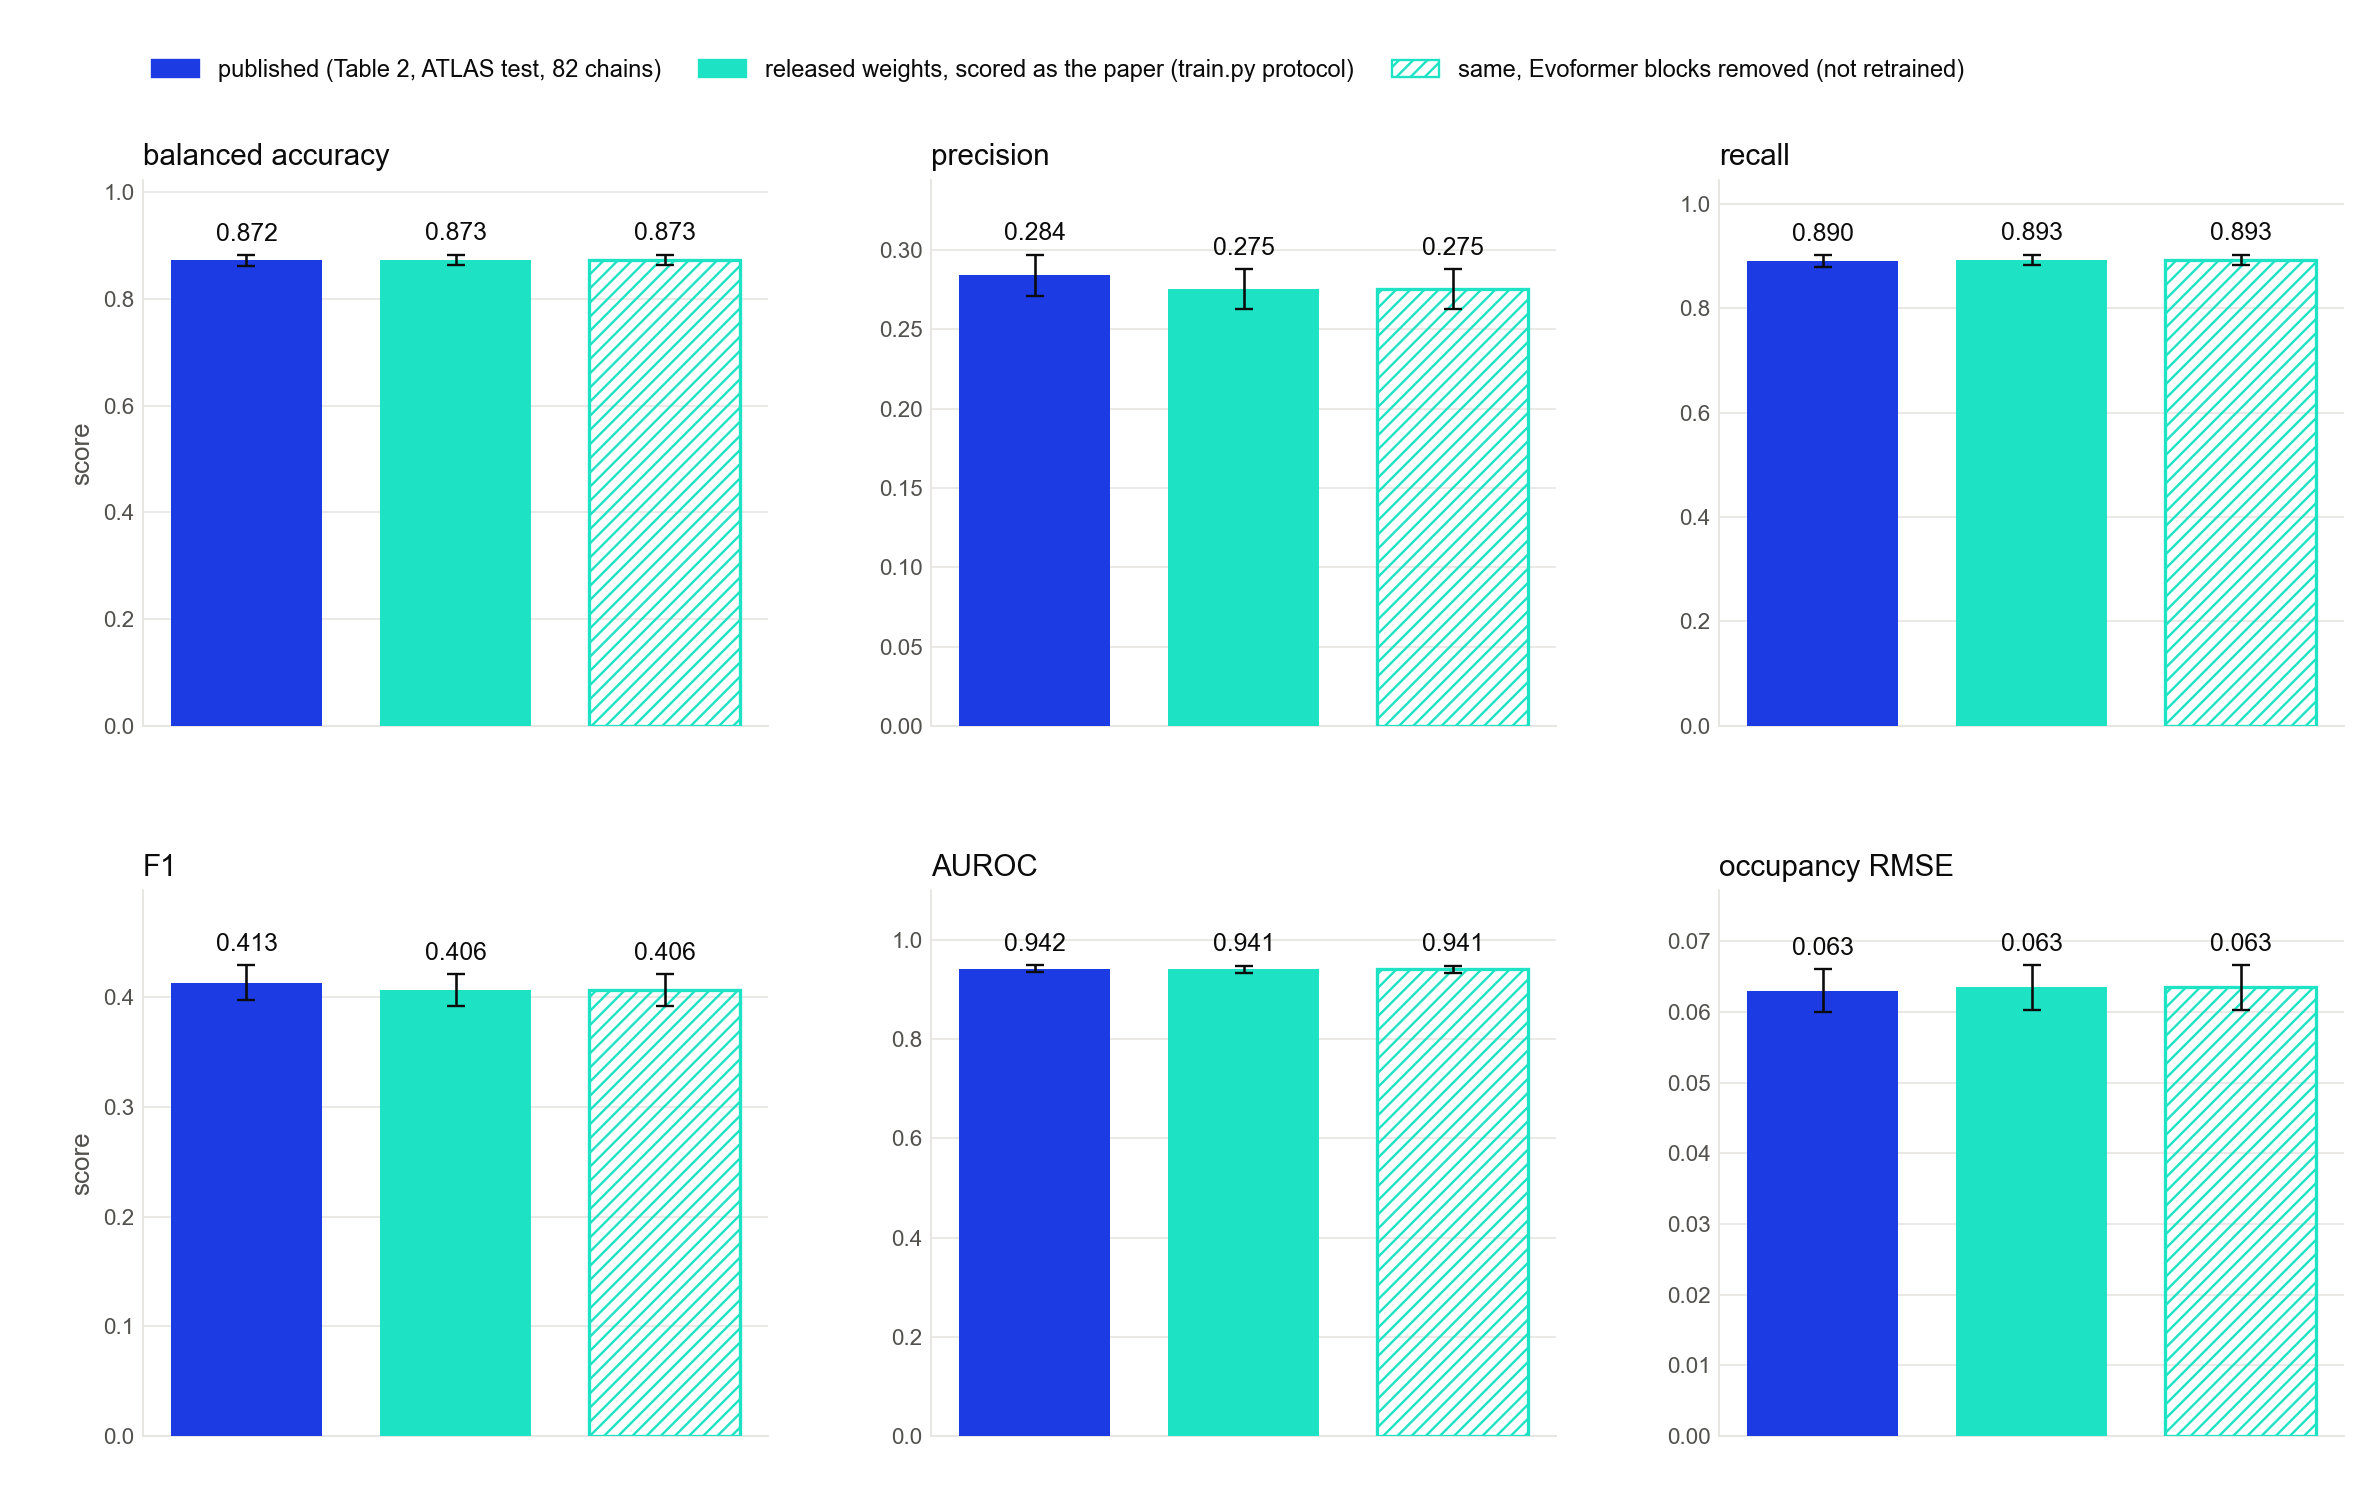
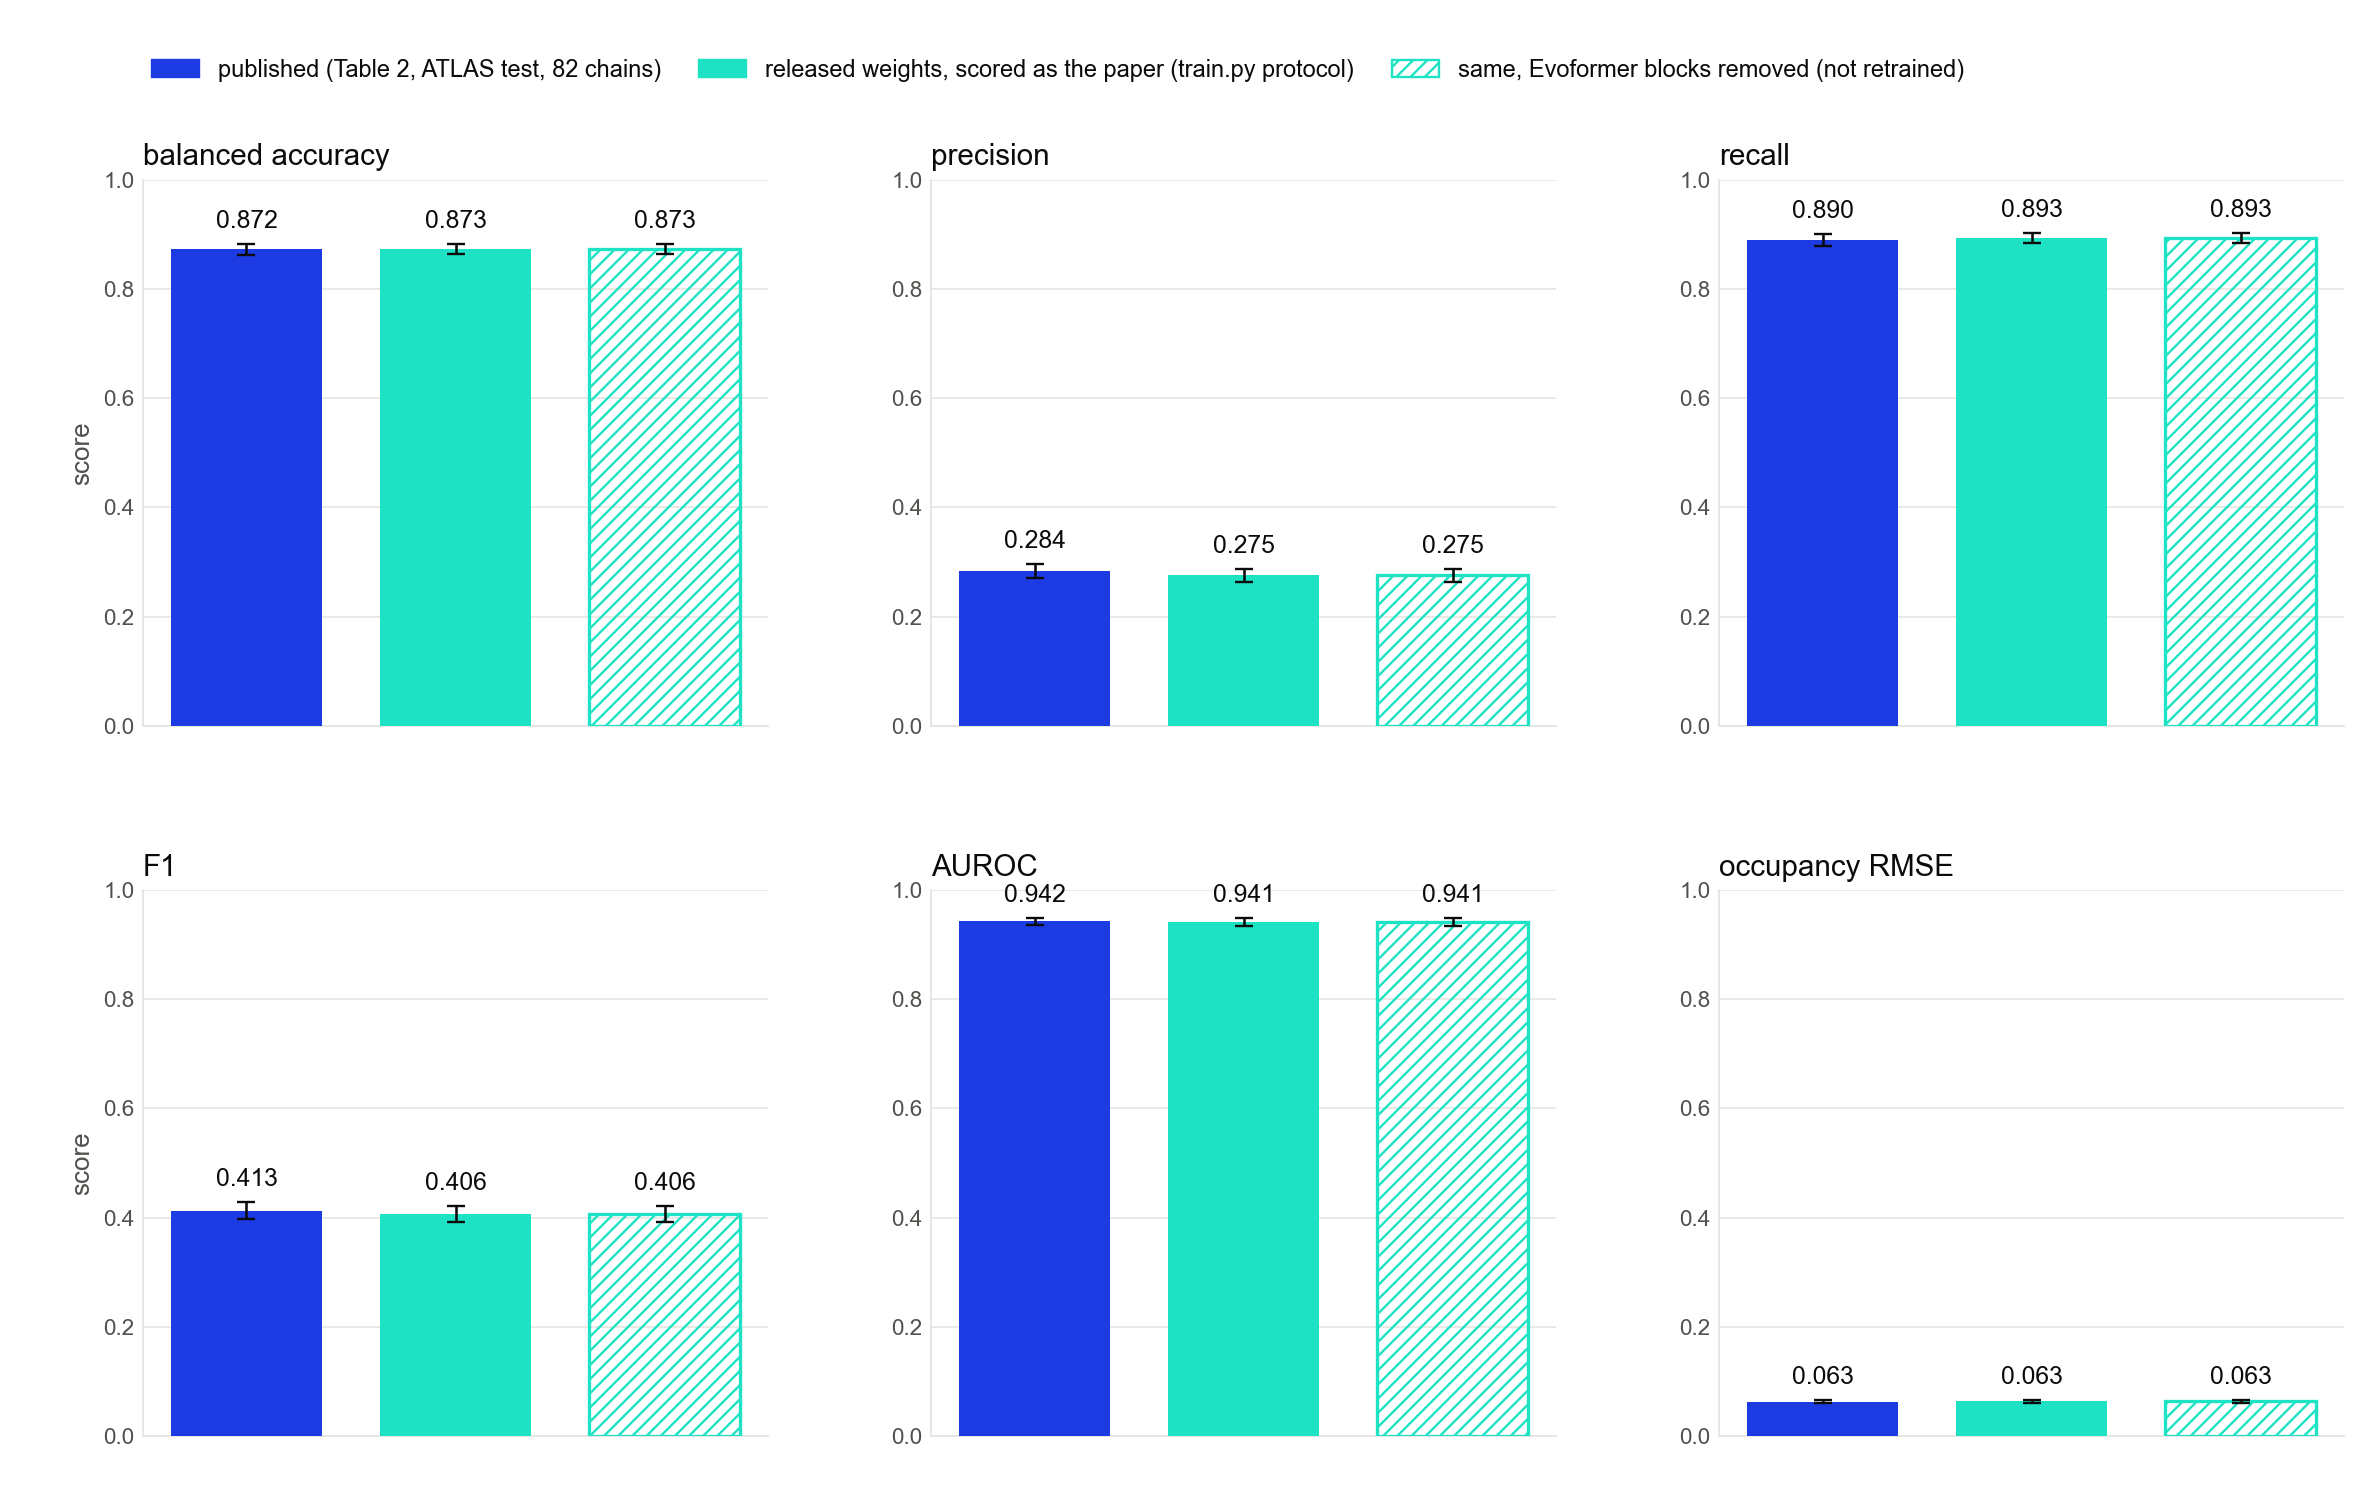
figures/transparent: y axis 0-1 in every panel

diff --git a/investigation/scripts/plot_atlas_table2_reproduction.py b/investigation/scripts/plot_atlas_table2_reproduction.py
@@ -3,7 +3,7 @@
     python investigation/scripts/plot_atlas_table2_reproduction.py
         [--out investigation/figures/reproduction/13_atlas_table2_reproduction.png]
     python investigation/scripts/plot_atlas_table2_reproduction.py --clean
-        (transparent, no figure title or caption, Arial -> investigation/figures/transparent/)
+        (transparent, no figure title or caption, Arial, y axis 0-1 -> investigation/figures/transparent/)
 
 Bars per Table 2 metric, in the same colours as the mdCATH figure
 (plot_si_table6_reproduction.py):
@@ -36,7 +36,8 @@ def main():
                     help="same run with the DCM Evoformer blocks removed (drawn if present)")
     ap.add_argument("--out", default=None)
     ap.add_argument("--clean", action="store_true",
-                    help="transparent background, no figure title or caption, Arial (figures/transparent/)")
+                    help="transparent background, no figure title or caption, Arial, y axis 0-1 in every panel "
+                         "(figures/transparent/)")
     args = ap.parse_args()
     args.out = args.out or ("investigation/figures/transparent/13_atlas_table2_reproduction.png" if args.clean
                             else "investigation/figures/reproduction/13_atlas_table2_reproduction.png")
@@ -72,8 +73,12 @@ def main():
                 ax.bar(i, v, width=0.72, color=col, zorder=3, edgecolor="none" if args.clean else "white",
                        linewidth=1.5)
             ax.errorbar(i, v, yerr=se, color=INK, capsize=4, elinewidth=1.1, zorder=4)
-            ax.text(i, v + se + top * 0.02, f"{v:.3f}", ha="center", va="bottom", fontsize=10.5, color=INK)
+            ax.text(i, v + se + (0.02 if args.clean else top * 0.02), f"{v:.3f}", ha="center", va="bottom",
+                    fontsize=10.5, color=INK)
         ax.set_ylim(0, top * 1.16)
+        if args.clean:       # one shared 0-1 scale across panels
+            ax.set_ylim(0, 1)
+            ax.set_yticks([0, 0.2, 0.4, 0.6, 0.8, 1.0])
         ax.set_xticks([])
         if k % 3 == 0:
             ax.set_ylabel("score", color=INK_2, fontsize=11)

diff --git a/investigation/scripts/plot_si_table6_reproduction.py b/investigation/scripts/plot_si_table6_reproduction.py
@@ -3,7 +3,7 @@
     python investigation/scripts/plot_si_table6_reproduction.py
         [--out investigation/figures/reproduction/13_si_table6_reproduction.png]
     python investigation/scripts/plot_si_table6_reproduction.py --clean
-        (transparent, no figure title or caption, Arial -> investigation/figures/transparent/)
+        (transparent, no figure title or caption, Arial, y axis 0-1 -> investigation/figures/transparent/)
 
 From results/13_eval_pairset_mdcath_per_protein.csv (eval_pairset.py, job 2199271): the
 released weights run once per test domain, full length, then scored two ways:
@@ -49,7 +49,8 @@ def main():
                     help="same run with the DCM Evoformer blocks removed (drawn if present)")
     ap.add_argument("--out", default=None)
     ap.add_argument("--clean", action="store_true",
-                    help="transparent background, no figure title or caption, Arial (figures/transparent/)")
+                    help="transparent background, no figure title or caption, Arial, y axis 0-1 in every panel "
+                         "(figures/transparent/)")
     args = ap.parse_args()
     args.out = args.out or ("investigation/figures/transparent/13_si_table6_reproduction.png" if args.clean
                             else "investigation/figures/reproduction/13_si_table6_reproduction.png")
@@ -121,6 +122,11 @@ def main():
         hi = max(max(pm), max(om))
         pad = (hi - lo) * 0.18 + 0.01
         ax.set_ylim(lo - pad, min(1.0, hi + pad) if m != "recall" else 1.005)
+        if args.clean:       # one shared 0-1 scale across panels
+            ax.set_ylim(0, 1)
+            ax.set_yticks(np.arange(0, 1.01, 0.2))
+            for art in ax.lines + ax.collections:
+                art.set_clip_on(False)        # markers at ~0.99 are not cut at the top edge
     from matplotlib.lines import Line2D
     leg_ax = grid.ravel()[len(PUBLISHED)]          # the free sixth cell holds the legend
     leg_ax.axis("off")

diff --git a/investigation/figures/transparent/README.md b/investigation/figures/transparent/README.md
@@ -1,7 +1,8 @@
 # Transparent figures
 
 Presentation versions of figures: transparent background, no figure title or caption, text in
-Arial. Each is made by its plot script's `--clean` option. The captioned originals live in the
+Arial, and the same 0-1 y axis in every panel (so panels compare directly; the captioned
+originals zoom each panel to its data). Each is made by its plot script's `--clean` option. The captioned originals live in the
 other folders and are the reference for what each figure shows.
 
 | file | script | captioned original |
